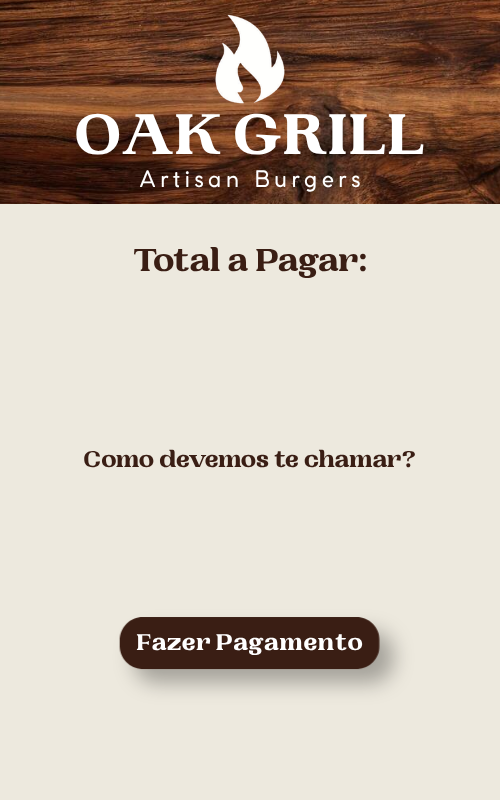
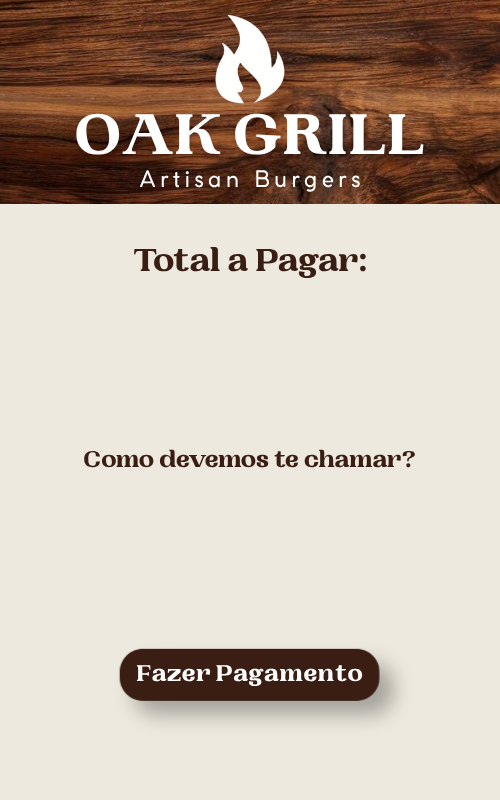
ajeitando a parte do botão.

Changed region(s): [[0.24, 0.75, 0.81, 0.9062]]

diff --git a/src/TotemRestaurante.java b/src/TotemRestaurante.java
@@ -189,7 +189,7 @@ public class TotemRestaurante extends JFrame {
         painelFormulario.setOpaque(false);
         
         GridBagConstraints gbc = new GridBagConstraints();
-        gbc.insets = new Insets(12, 10, 12, 10);
+        gbc.insets = new Insets(12, 10, 12, 8);
         gbc.gridx = 0;
 
         lblResumoFinal = new JLabel("R$ 0,00");
